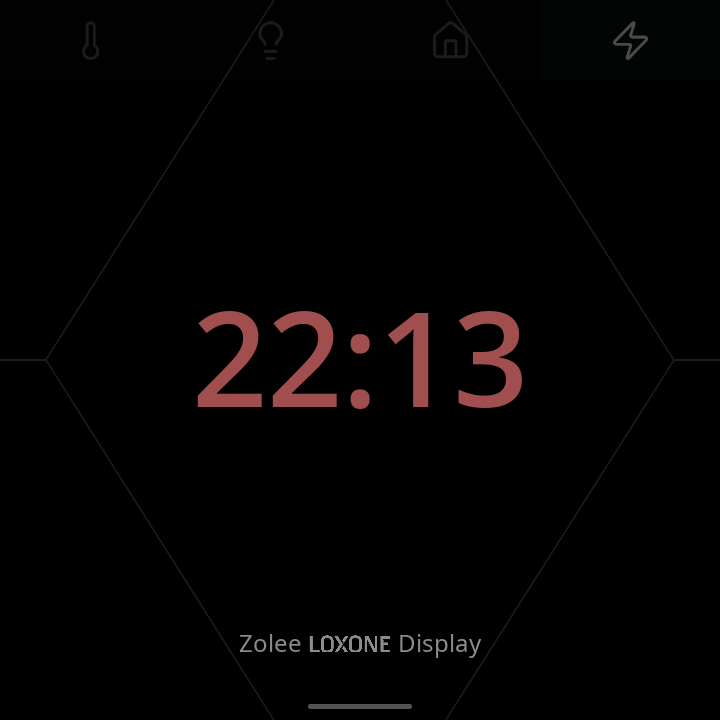
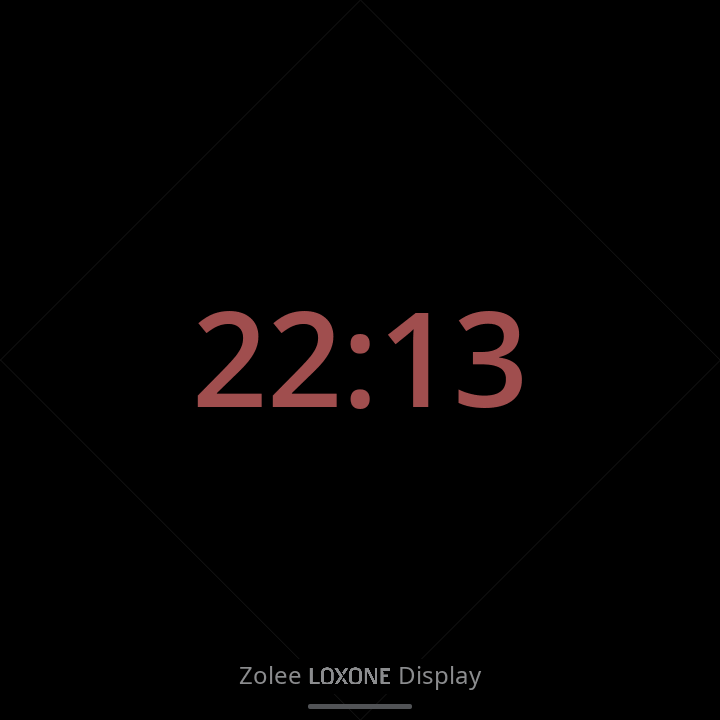
Verify the midpoint diamond, unobstructed footer, and hidden Touch tabs in both previews

diff --git a/simulator/render.c b/simulator/render.c
@@ -72,6 +72,61 @@ static bool has_label(lv_obj_t *parent, const char *text)
     return false;
 }
 
+void assert_awake_tabs(void)
+{
+    /* Mind a négy ikonból legyen látható képpont, az üres sáv nem elegendő. */
+    for (int tab = 0; tab < 4; ++tab) {
+        unsigned lit = 0;
+        for (int y = 0; y < 80; ++y)
+            for (int x = tab * 180; x < (tab + 1) * 180; ++x)
+                if ((framebuffer[y * SIDE + x] & 255) > 40) ++lit;
+        assert(lit > 75);
+    }
+}
+
+static void check_saver_chrome(const lv_area_t *footer)
+{
+    /* A Touch-feliratot a normál óra teljes sorainak képpontjaival vetjük össze.
+     * A rombusz mindkét alsó éle metszené ezt a területet takarás nélkül. */
+    enum { FOOTER_Y = 659, FOOTER_H = 35 };
+    static uint32_t reference[FOOTER_H][SIDE];
+    assert(footer->y1 == FOOTER_Y && footer->y2 == FOOTER_Y + FOOTER_H - 1);
+    if (!fixture_touch) {
+        memcpy(reference, framebuffer + FOOTER_Y * SIDE, sizeof(reference));
+        assert((framebuffer[705 * SIDE + 360] & 0xffffff) == 0);
+        return;
+    }
+    for (int y = footer->y1; y <= footer->y2; ++y) {
+        for (int x = footer->x1; x <= footer->x2; ++x) {
+            if (abs(abs(x - 360) + abs(y - 360) - 360) <= 3)
+                assert(reference[y - FOOTER_Y][x] == framebuffer[y * SIDE + x]);
+        }
+    }
+    /* Az egész felső sáv üres a két egypixeles, semleges rombuszélen kívül. */
+    for (int y = 0; y < 80; ++y) {
+        unsigned visible = 0;
+        for (int x = 0; x < SIDE; ++x) {
+            uint32_t pixel = framebuffer[y * SIDE + x] & 0xffffff;
+            if (!pixel) continue;
+            assert(abs(abs(x - 360) - y) <= 2);
+            assert((pixel & 255) <= 23 && pixel == (pixel & 255) * 0x010101);
+            ++visible;
+        }
+        assert(visible > 0 && visible <= 8);
+    }
+    /* A keret minden élét követjük két szemközti vízszintes metszetben. */
+    const int sample_y[] = {180, 540};
+    for (unsigned i = 0; i < sizeof(sample_y) / sizeof(*sample_y); ++i) {
+        for (int x = 180; x <= 540; x += 360) {
+            uint32_t stroke = 0;
+            for (int dx = -1; dx <= 1; ++dx)
+                stroke |= framebuffer[sample_y[i] * SIDE + x + dx] & 0xffffff;
+            assert(stroke > 0 && stroke <= 0x1f1f1f);
+        }
+    }
+    assert((framebuffer[705 * SIDE + 360] & 0xffffff) == 0x515356);
+}
+
 void assert_standby(const char *time_text, bool night)
 {
     lv_obj_t *layer = lv_obj_get_child(lv_screen_active(), -1);
@@ -102,16 +157,7 @@ void assert_standby(const char *time_text, bool night)
         assert(abs(red - blue) < 5);
     }
 
-    /* Nappal és éjjel azonos, halvány osztóvonalak és az alsó húzásjelző. */
-    if (fixture_touch) {
-        assert((framebuffer[180 * SIDE + 159] & 0xffffff) == 0x191b1d);
-        assert((framebuffer[180 * SIDE + 560] & 0xffffff) == 0x191b1d);
-        assert((framebuffer[360 * SIDE + 22] & 0xffffff) == 0x191b1d);
-        assert((framebuffer[360 * SIDE + 698] & 0xffffff) == 0x191b1d);
-        assert((framebuffer[705 * SIDE + 360] & 0xffffff) == 0x515356);
-    } else {
-        assert((framebuffer[705 * SIDE + 360] & 0xffffff) == 0);
-    }
+    check_saver_chrome(&area);
 
     /* A valódi PNG az átfestés után a két felirattal azonos tintaárnyalatot ad. */
     lv_color_t ink = lv_obj_get_style_text_color(lv_obj_get_child(footer, 0), 0);

diff --git a/simulator/test_touch.c b/simulator/test_touch.c
@@ -53,6 +53,7 @@ static void unlock(void)
     up(350, 530);
     step(500);
     assert(fixture_page == 3);
+    assert_awake_tabs();
     quiet();
 }
 
@@ -63,14 +64,21 @@ static void zones_and_edges(void)
     expect_at(110, 530, BL);
     expect_at(600, 530, BR);
     /* Mindkét oldalon pontosan a ferde határvonal két szomszédos képpontja. */
-    expect_at(159, 180, TL);
-    expect_at(160, 180, CENTER);
-    expect_at(559, 180, CENTER);
-    expect_at(560, 180, TR);
-    expect_at(20, 359, TL);
-    expect_at(20, 360, BL);
-    expect_at(695, 359, TR);
-    expect_at(695, 360, BR);
+    expect_at(179, 180, TL);
+    expect_at(180, 180, CENTER);
+    expect_at(540, 180, CENTER);
+    expect_at(541, 180, TR);
+    expect_at(0, 359, TL);
+    expect_at(0, 360, CENTER);
+    expect_at(0, 361, BL);
+    expect_at(719, 358, TR);
+    expect_at(719, 359, CENTER);
+    expect_at(719, 360, CENTER);
+    expect_at(719, 362, BR);
+    expect_at(359, 0, TL);
+    expect_at(360, 0, CENTER);
+    expect_at(361, 0, TR);
+    expect_at(360, 667, CENTER);
     expect_at(100, 667, BL);
     expect_at(100, 668, BL);
     expect_at(40, 700, BL);
@@ -154,9 +162,9 @@ static void canceled_drags(void)
     up(360, 360);
     step(fixture_tap_window + 60);
     quiet();
-    down(159, 180); /* Átlépi a zónahatárt, de a mozgás csak két képpont. */
-    down(161, 180);
-    up(161, 180);
+    down(179, 180); /* Átlépi a zónahatárt, de a mozgás csak két képpont. */
+    down(181, 180);
+    up(181, 180);
     down(100, 130);
     step(650);
     up(100, 130);
@@ -236,8 +244,8 @@ void test_touch_saver(void)
     fixture_touch = fixture_has_touch_section = true;
     fixture_generation++;
     idle();
-    assert_standby("07:13", false);
     snapshot("standby-touch");
+    assert_standby("07:13", false);
     fixture_time += 15 * 3600;
     fixture_night_value = true;
     step(800);

diff --git a/simulator/touch_test.h b/simulator/touch_test.h
@@ -7,4 +7,5 @@ void sim_contact(int x, int y, lv_indev_state_t state);
 void step(unsigned ms);
 void snapshot(const char *name);
 void assert_standby(const char *clock, bool night);
+void assert_awake_tabs(void);
 void test_touch_saver(void);
